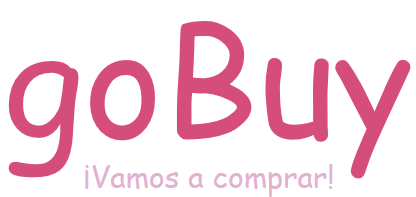
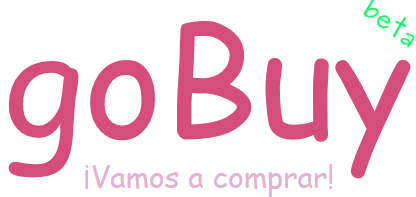
img-beta y cambio posición de añademe

Changed region(s): [[0.875, 0.0, 1.0, 0.2437]]

diff --git a/src/html/home.html b/src/html/home.html
@@ -13,7 +13,7 @@
 
 <link rel='stylesheet' href='home.css' type='text/css' media='all' />
 <div class="header text">
-    <i class="far fa-envelope"></i> <a href="mailto:info@geowe.org"> info@geowe.org</a> <a href="https://www.geowe.org" target="_blank"> #GeoWE</a> #YoMeQuedoEnCasa #QuédateEnCasa
+    ¿No encuentras un establecimiento? <button id="addButton" class="btn-green ">Añádelo!</button>
 </div>
 
 
@@ -58,7 +58,7 @@
 </div>
 
 <div class="footer text ">
-    ¿No encuentras un establecimiento? <button id="addButton" class="btn-green ">Añádelo!</button>
+    <i class="far fa-envelope"></i> <a href="mailto:info@geowe.org"> info@geowe.org</a> <a href="https://www.geowe.org" target="_blank"> #GeoWE</a> #YoMeQuedoEnCasa #QuédateEnCasa    
 </div>
 
 

diff --git a/src/html/home.css b/src/html/home.css
@@ -21,8 +21,8 @@ a:hover {
 .header {
     /* background-color: #f1f1f1; */
     /* padding: 14px 16px; */
-    /*margin-top: 1em;*/
-    text-align: left;
+    margin-top: 0.5em;
+    text-align: center;
 }
 
 .column {
